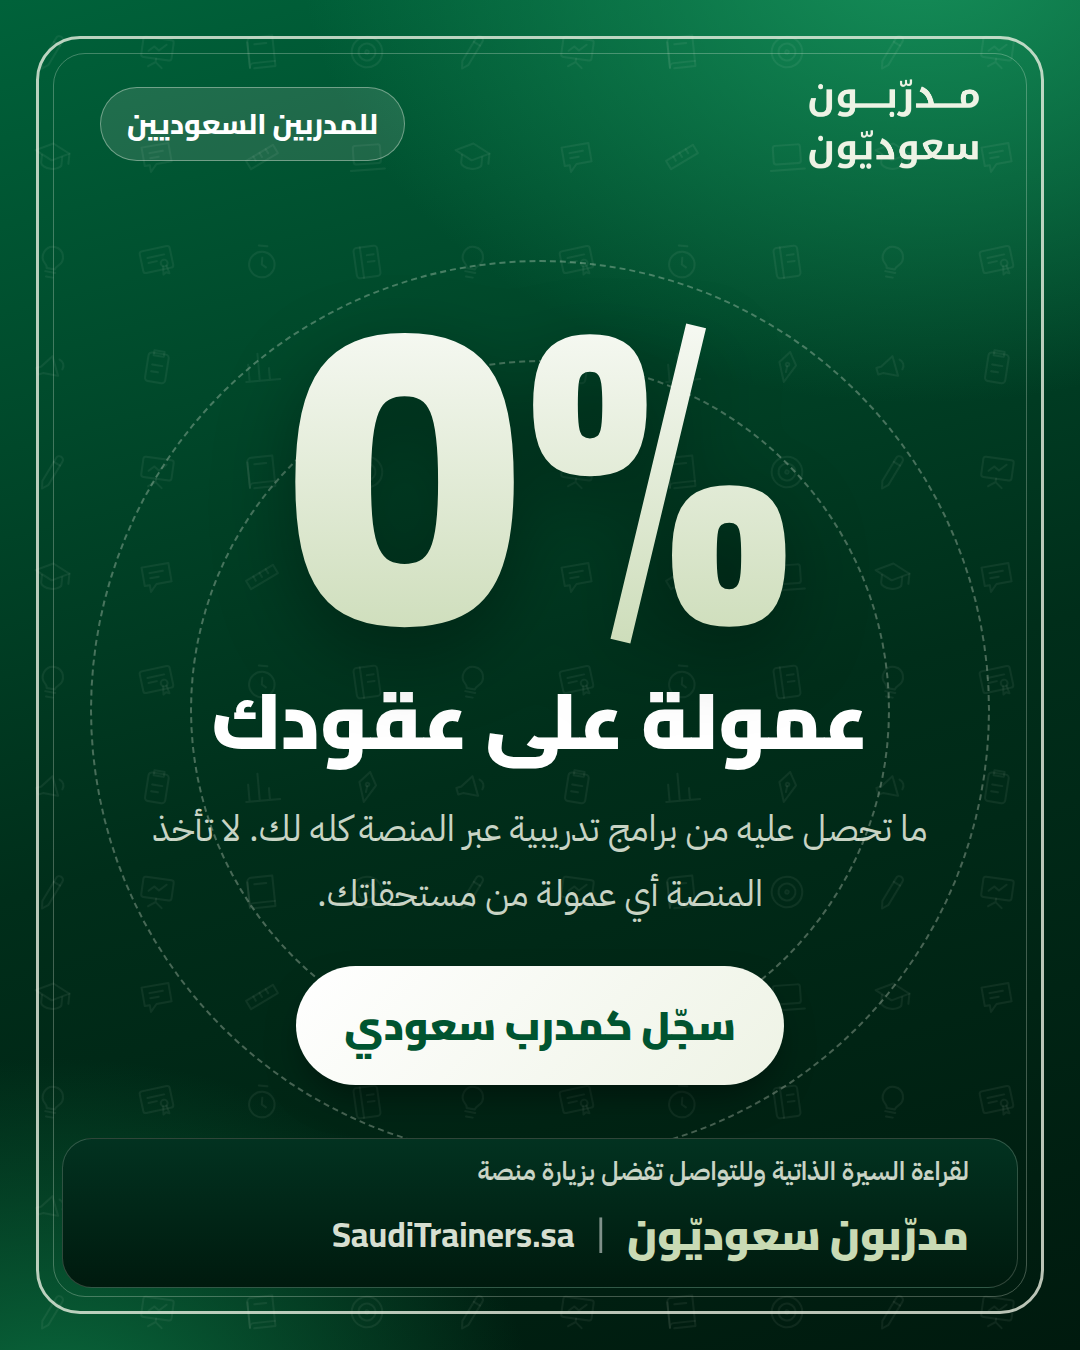
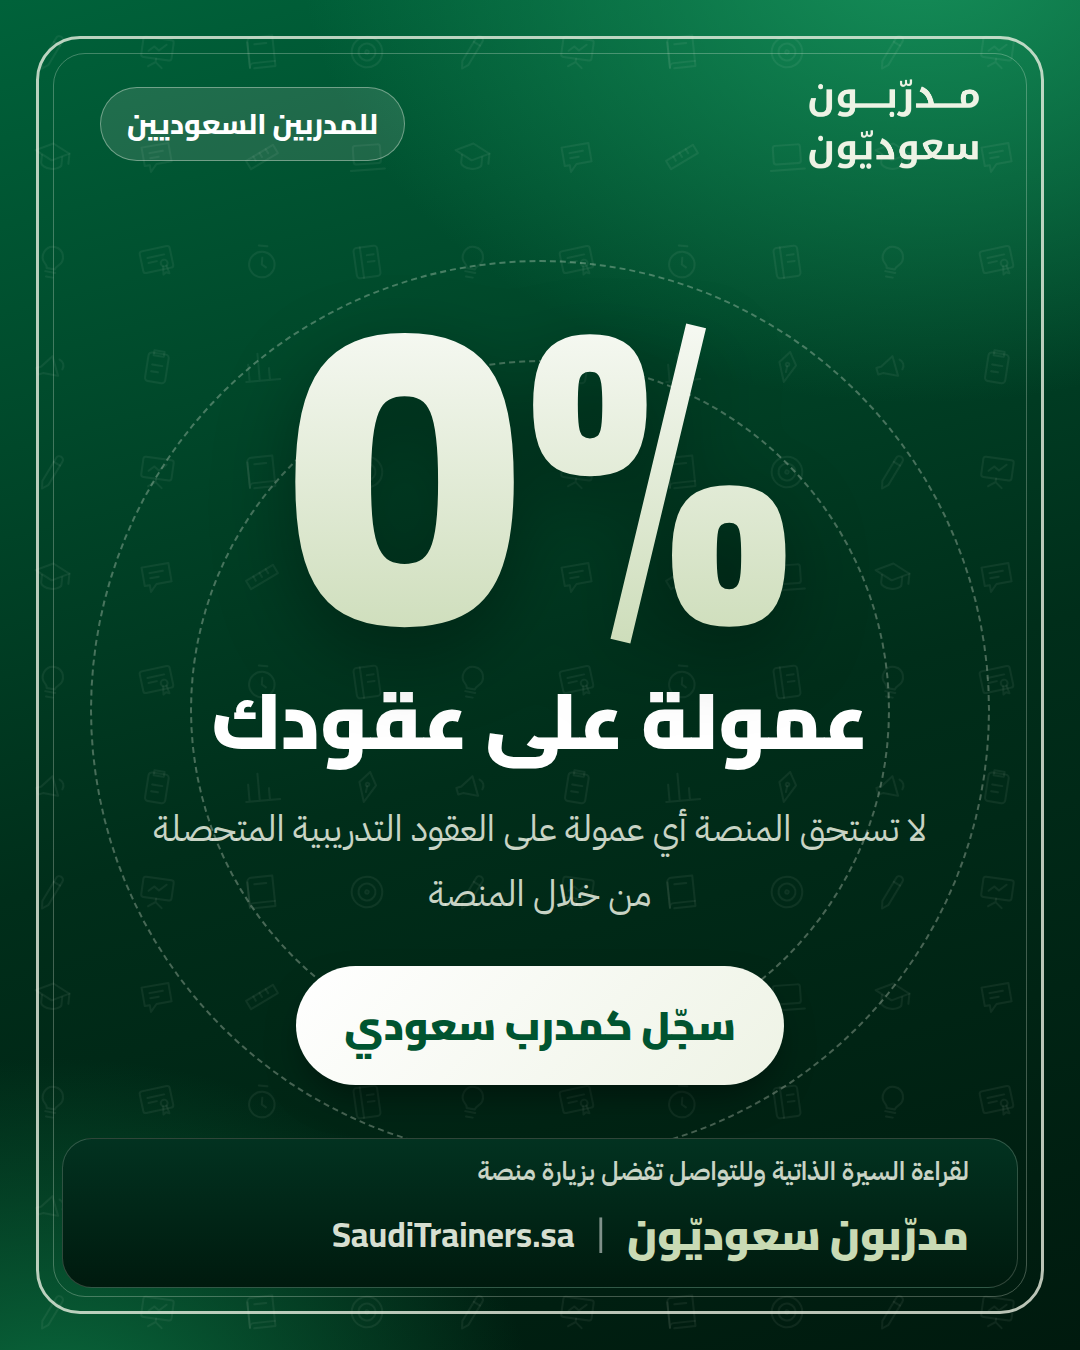
تعديل نصوص منشورين ترويجيين (تحديث لحظي، نص العمولة)
Claude-Session: https://claude.ai/code/session_01Fu7HFzxcSeu2DaK9aAa2Uf

Changed region(s): [[0.1222, 0.5911, 0.8556, 0.6844]]

diff --git a/tools/promo/posts.html b/tools/promo/posts.html
@@ -154,7 +154,7 @@ h2{font-family:'Cairo';font-weight:900;font-size:86px;line-height:1.3}
   <div class="ring" style="width:900px;height:900px;left:90px;top:260px"></div><div class="ring" style="width:700px;height:700px;left:190px;top:360px"></div>
   <div class="top"><img src="/assets/logo-cream.png" alt=""><span class="kick">للمدربين السعوديين</span></div>
   <div class="body"><div class="zero"><div class="big">0%</div><h2>عمولة على عقودك</h2>
-    <p>ما تحصل عليه من برامج تدريبية عبر المنصة كله لك. لا تأخذ المنصة أي عمولة من مستحقاتك.</p>
+    <p>لا تستحق المنصة أي عمولة على العقود التدريبية المتحصلة من خلال المنصة</p>
     <span class="cta" style="margin-top:40px">سجّل كمدرب سعودي</span></div></div>
   <div class="foot"><div><div class="lead">لقراءة السيرة الذاتية وللتواصل تفضل بزيارة منصة</div><div class="line"><b>مدرّبون سعوديّون</b><i class="sep">|</i><em>SaudiTrainers.sa</em></div></div></div>
 </section>
@@ -167,7 +167,7 @@ h2{font-family:'Cairo';font-weight:900;font-size:86px;line-height:1.3}
       <span class="call" style="right:-10px;top:150px"><i class="fa-solid fa-location-dot"></i>منطقتك</span>
       <span class="call" style="left:-10px;top:300px"><i class="fa-solid fa-hourglass-half"></i>خبرتك بالأرقام</span>
       <span class="call" style="right:-10px;top:470px"><i class="fa-solid fa-layer-group"></i>تخصصاتك</span>
-      <span class="call" style="left:-10px;top:620px"><i class="fa-solid fa-qrcode"></i>رمز يفتح صفحتك</span></div></div>
+      <span class="call" style="left:-10px;top:620px"><i class="fa-solid fa-bolt"></i>تحديث لحظي</span></div></div>
   <div class="foot"><div><div class="lead">لقراءة السيرة الذاتية وللتواصل تفضل بزيارة منصة</div><div class="line"><b>مدرّبون سعوديّون</b><i class="sep">|</i><em>SaudiTrainers.sa</em></div></div></div>
 </section>
 
